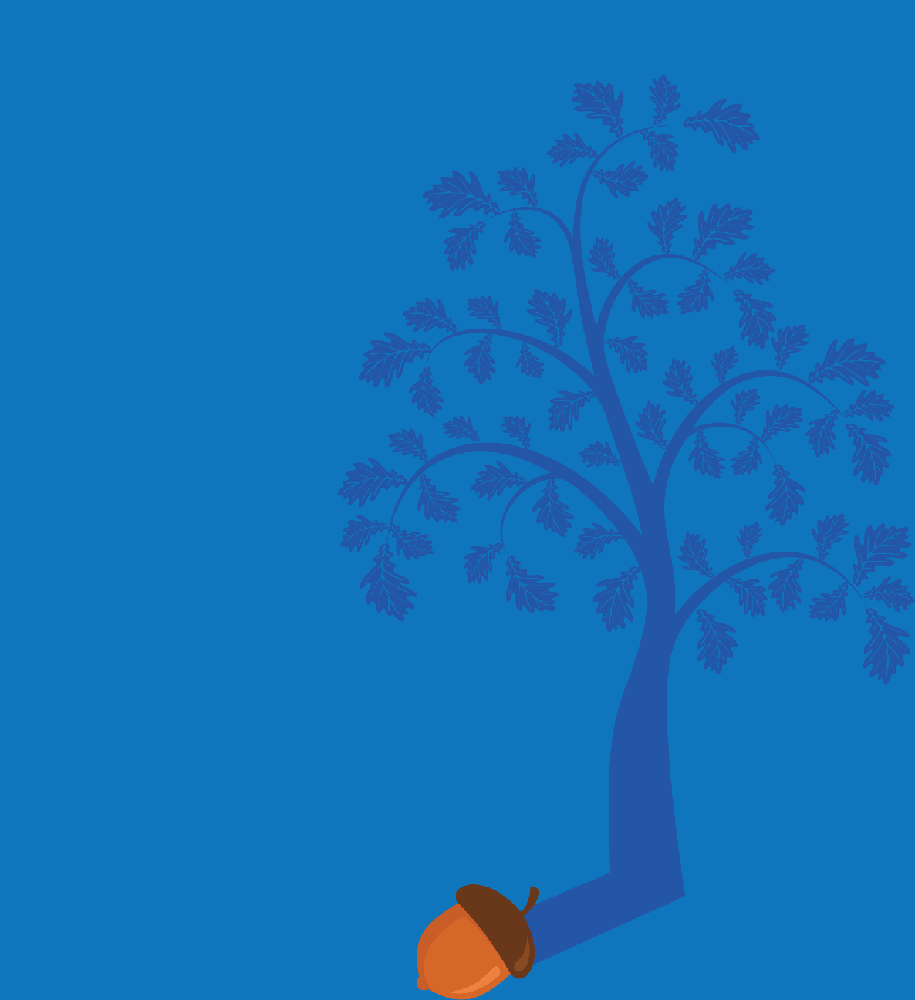
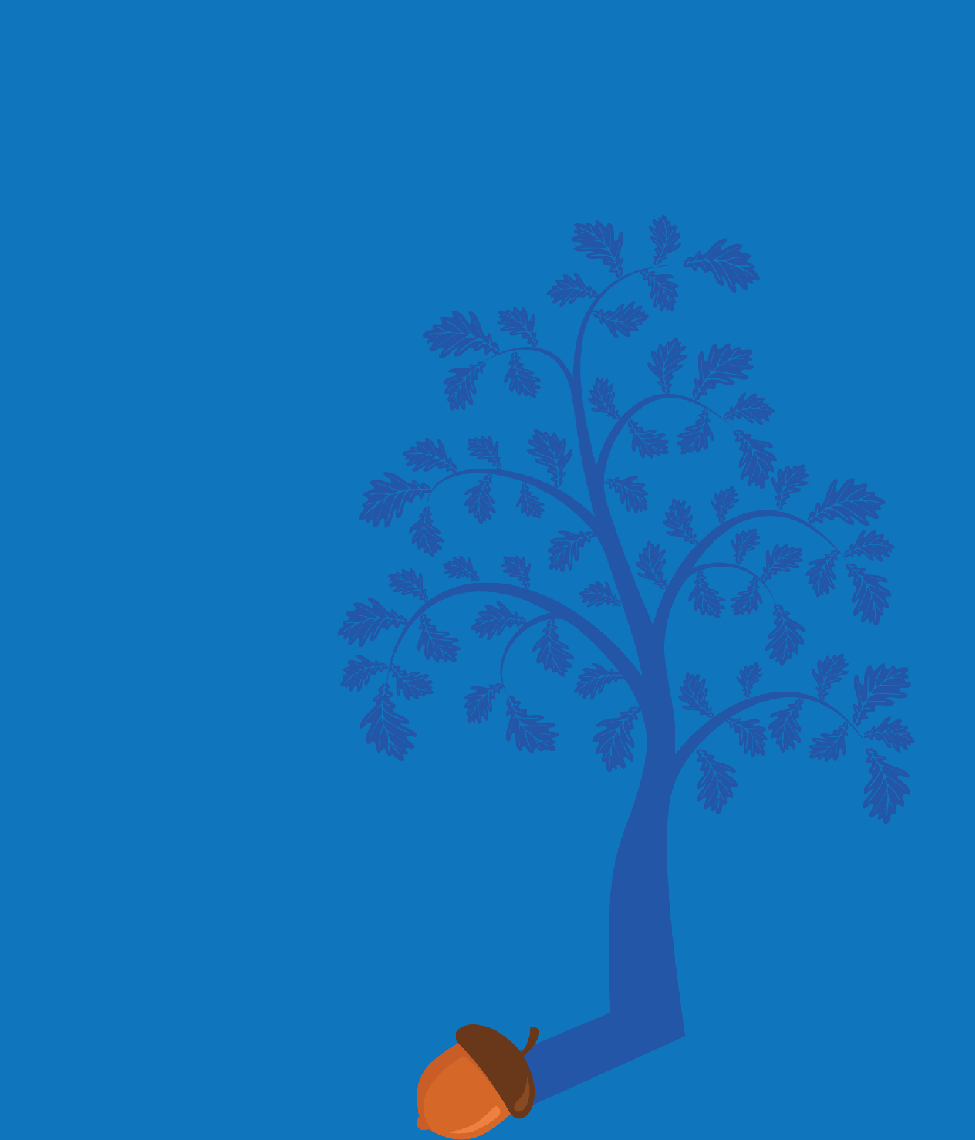
formatting

Changed region(s): [[0.3366, 0.062, 1.0, 1.0]]

diff --git a/donate/new.html b/donate/new.html
@@ -80,7 +80,7 @@ e.async=true;var t=document.getElementsByTagName("script")[0];t.parentNode.inser
 <!-- End of Zendesk Widget script -->
 <!-- InstanceBeginEditable name="head" -->
 <style>
-	@font-face {
+@font-face {
 	font-family: 'Sacramento Pro';
 	src: url('../shared-assets/web-fonts/Sacramento Pro.woff2') format('woff2'), url('../shared-assets/web-fonts/SacramentoPro-Regular.woff') format('woff'), url('../shared-assets/web-fonts/SacramentoPro-Regular.ttf') format('truetype');
 	font-weight: normal;
@@ -92,17 +92,25 @@ h2.sacramento {
 	color: #fff;
 	margin: 10px 0 20px 0;
 }
-	.page-row {
-		background-color: #0f75bc;
-		color: #fff;
-	}
-	.page-container {
-		background: #0f75bc url("acorn-background.png") top right no-repeat;
-		
-	}
-	.page-row h1, .page-row h3, .page-row h4, .page-row h5 {
-		color: #fff;
-	}
+.page-row {
+	background-color: #0f75bc;
+	color: #fff;
+	padding-bottom: 60px;
+}
+.page-container {
+	background: #0f75bc url("acorn-background.png") top right no-repeat;
+	padding-bottom: 60px;
+}
+.page-row h1, .page-row h3, .page-row h4, .page-row h5 {
+	color: #fff;
+}
+.logos {
+	float: right;
+	margin-top: 460px;
+}
+.content-column {
+	margin-top: 60px;
+}
 </style>
 <!-- InstanceEndEditable -->
 </head>
@@ -294,11 +302,11 @@ height="0" width="0" style="display:none;visibility:hidden"></iframe>
         <h4 class="roboto text-center">Join Douglas County Libraries Foundation in helping to fund the future on Colorado Gives Day, Tuesday, December 10. Your donation supports the work of the Foundation in funding programs that reach youth, adults and families in Douglas County and across Colorado—today and for generations to come. When you schedule your donation for December 10, your gift goes even further thanks to Community First Foundation and FirstBank’s $1 million incentive fund. </h4>
         <div class="padding-top-15 padding-bottom-15 text-center"><a class="btn btn-default" href="#" target="_blank">Schedule Donation </a></div>
       </div>
-      <div class="col-sm-6">
+      <div class="col-md-6 content-column">
         <h5 class="no-margin-bottom">$1,000 helps pay test fees for 10 GED/HSE students</h5>
         <div>Graduates’ return on investment in education:</div>
         <div>Average annual earnings with a high school diploma is $37,024 versus $27,040 for those with less than a high school diploma.</div>
-		  <div><i>*Bureau of Labor Statistics</i> </div>
+        <div><i>*Bureau of Labor Statistics</i> </div>
         <h5 class="no-margin-bottom">$2,000 helps send 10 kids to Camp DCL</h5>
         <div>Camp DCL makes the world a little bigger for kids in our community. </div>
         <h5 class="no-margin-bottom">$3,000 helps fund new books for kids in pediatric hospitals</h5>
@@ -312,10 +320,9 @@ height="0" width="0" style="display:none;visibility:hidden"></iframe>
         <h5 class="no-margin-bottom">Help us grow the tree and make an impact for generations to come. Schedule your donation today! </h5>
         <div class="padding-top-15 padding-bottom-15 text-center"><a class="btn btn-default" href="#" target="_blank">Schedule Now </a></div>
       </div>
-		
-		<div class="col-sm-6"><div class="logos"><img src="logos.png" alt="Colorado Gives Day"></div></div>
-		
-		
+      <div class="col-md-6">
+        <div class="logos"><img src="logos.png" alt="Colorado Gives Day"></div>
+      </div>
     </div>
   </div>
   <!-- InstanceEndEditable --> </div>
